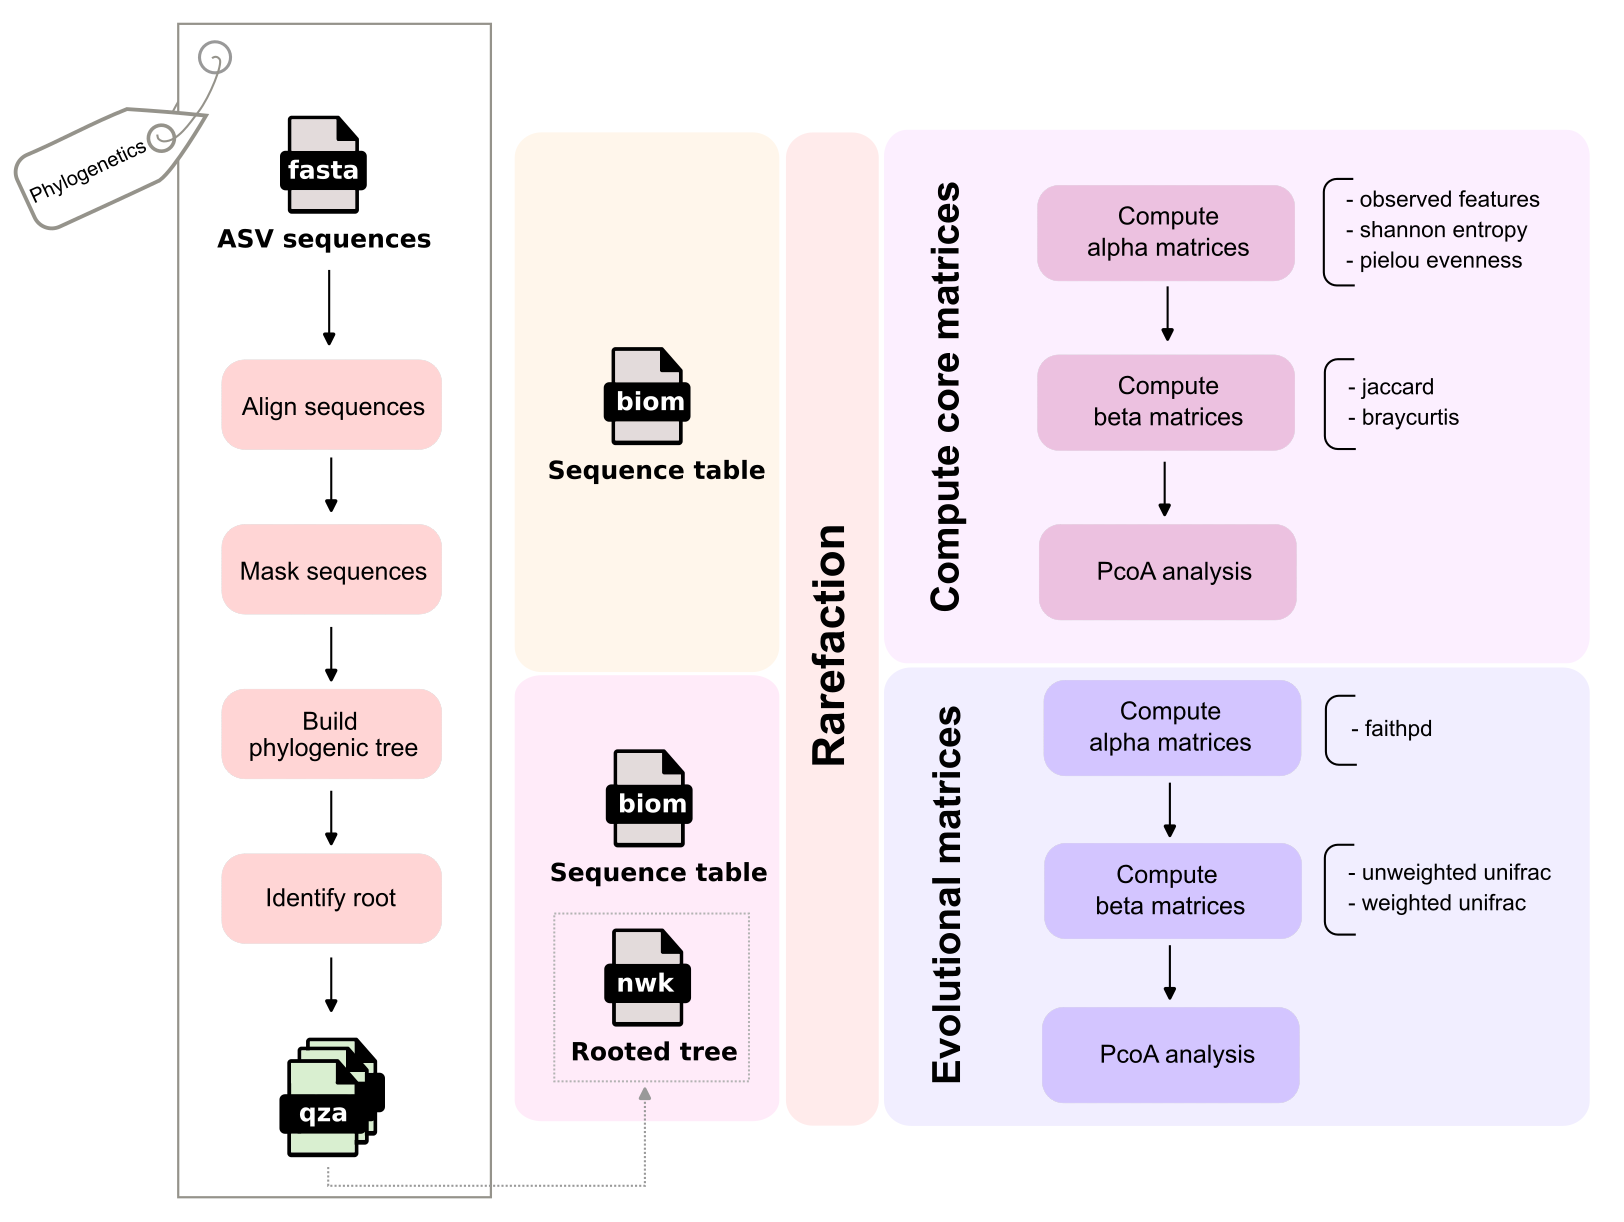
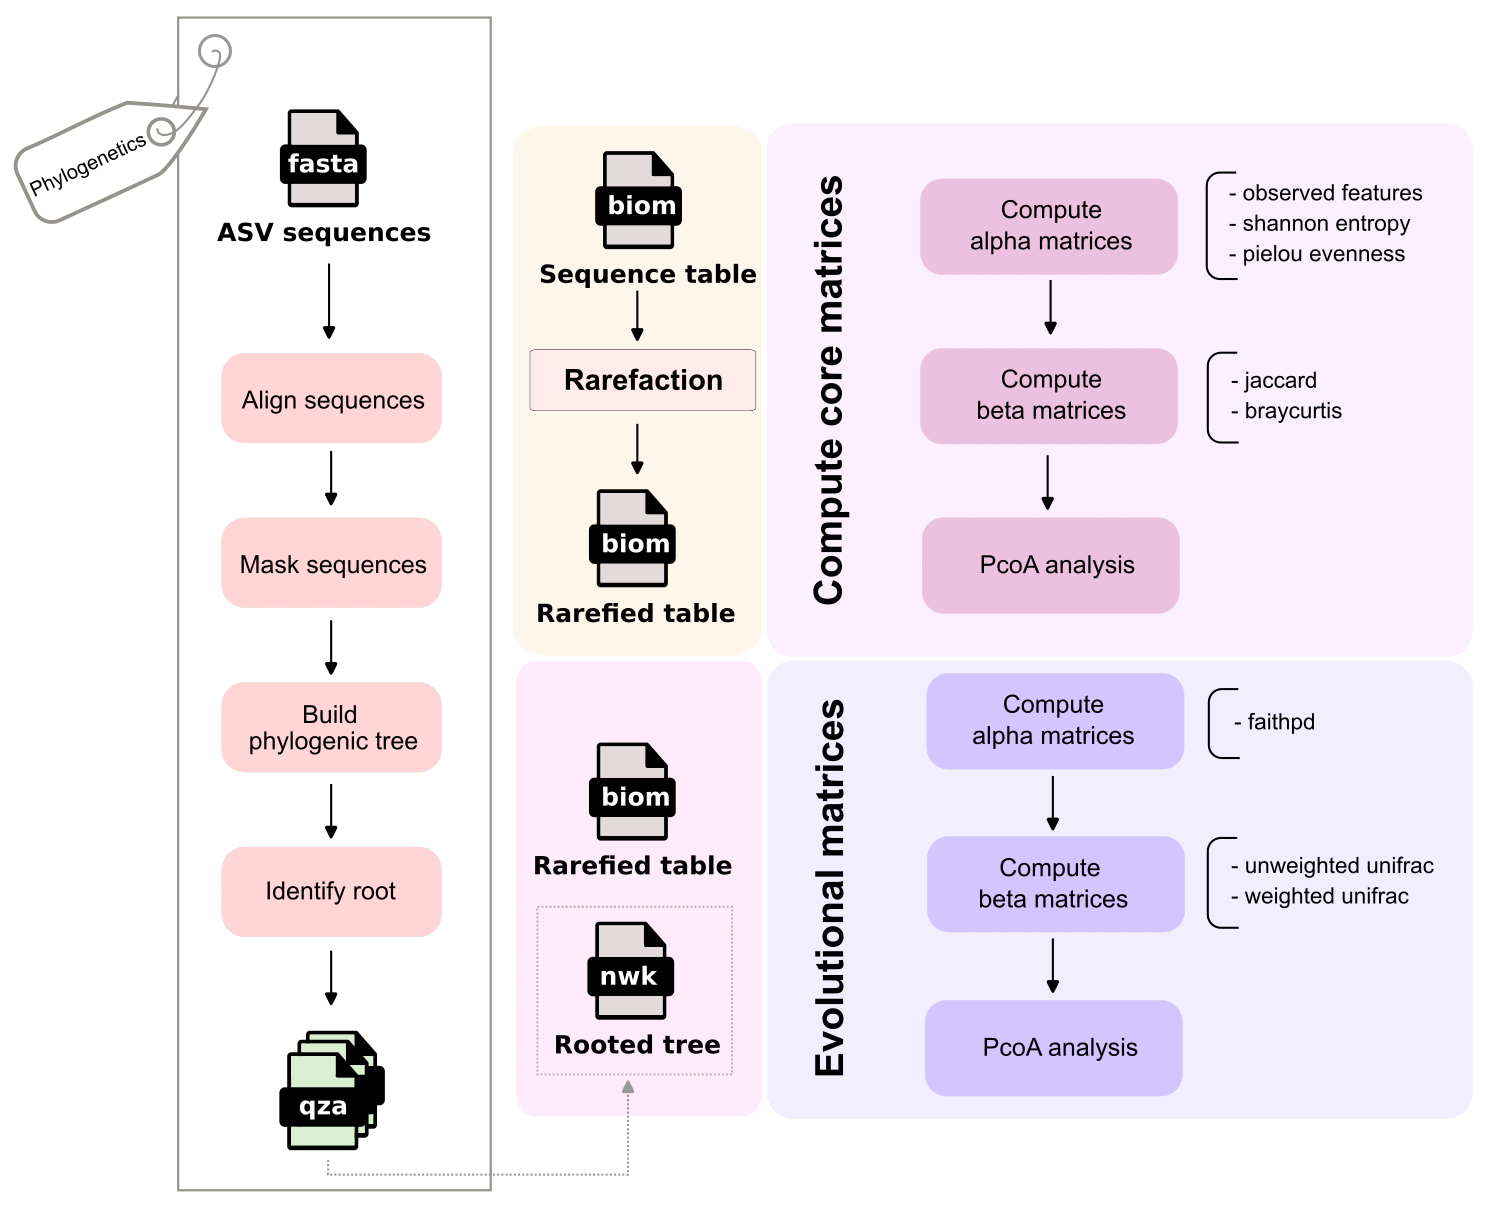
update: dive in weight

diff --git a/algorithm_reference/weighted_unifrac.py b/algorithm_reference/weighted_unifrac.py
@@ -1,8 +1,27 @@
 import biom
 import skbio
-from skbio.diversity import beta_diversity
+from skbio import diversity
+from  scipy.spatial import distance
+from skbio.stats.distance import DistanceMatrix
+from skbio.diversity.beta import _unifrac 
+from skbio.diversity import _util
 import pandas as pd
 import numpy as np
+
+
+# /opt/conda/envs/qiime2-amplicon-2026.1/lib/python3.10/site-packages/skbio/diversity/_driver.py:367
+def beta_diversity(
+    metric, counts, ids=None, validate=True, pairwise_func=None, **kwargs
+):
+    normalized = kwargs.pop("normalized", _unifrac._normalize_weighted_unifrac_by_default)
+    taxa, tree, kwargs = _util._get_phylogenetic_kwargs(counts, **kwargs)
+    metric, counts_by_node = _unifrac._setup_multiple_weighted_unifrac(
+            counts, taxa=taxa, tree=tree, normalized=normalized, validate=validate
+        )
+    counts = counts_by_node
+    pairwise_func = distance.pdist
+    distances = pairwise_func(counts, metric=metric, **kwargs)
+    return DistanceMatrix(distances, ids)
 
 def calculate_weighted_unifrac(table, tree):
     """
